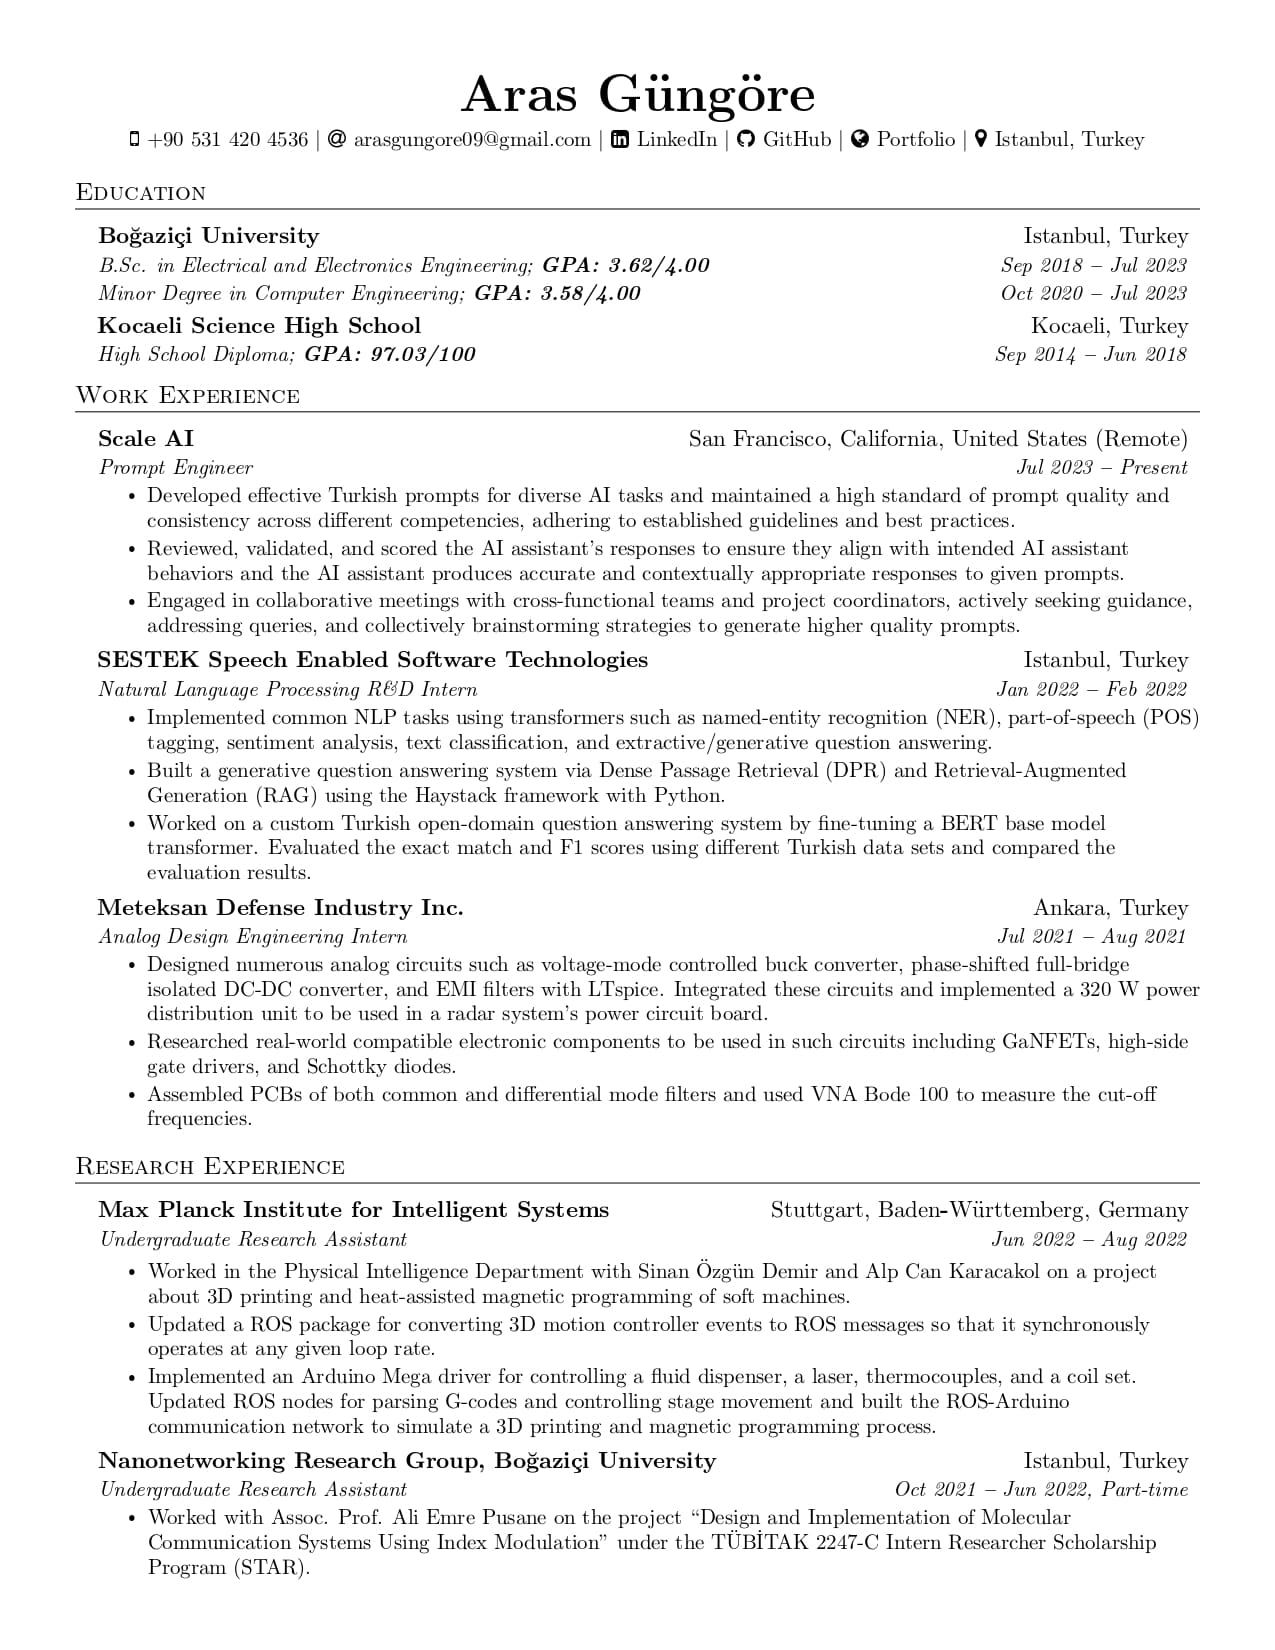
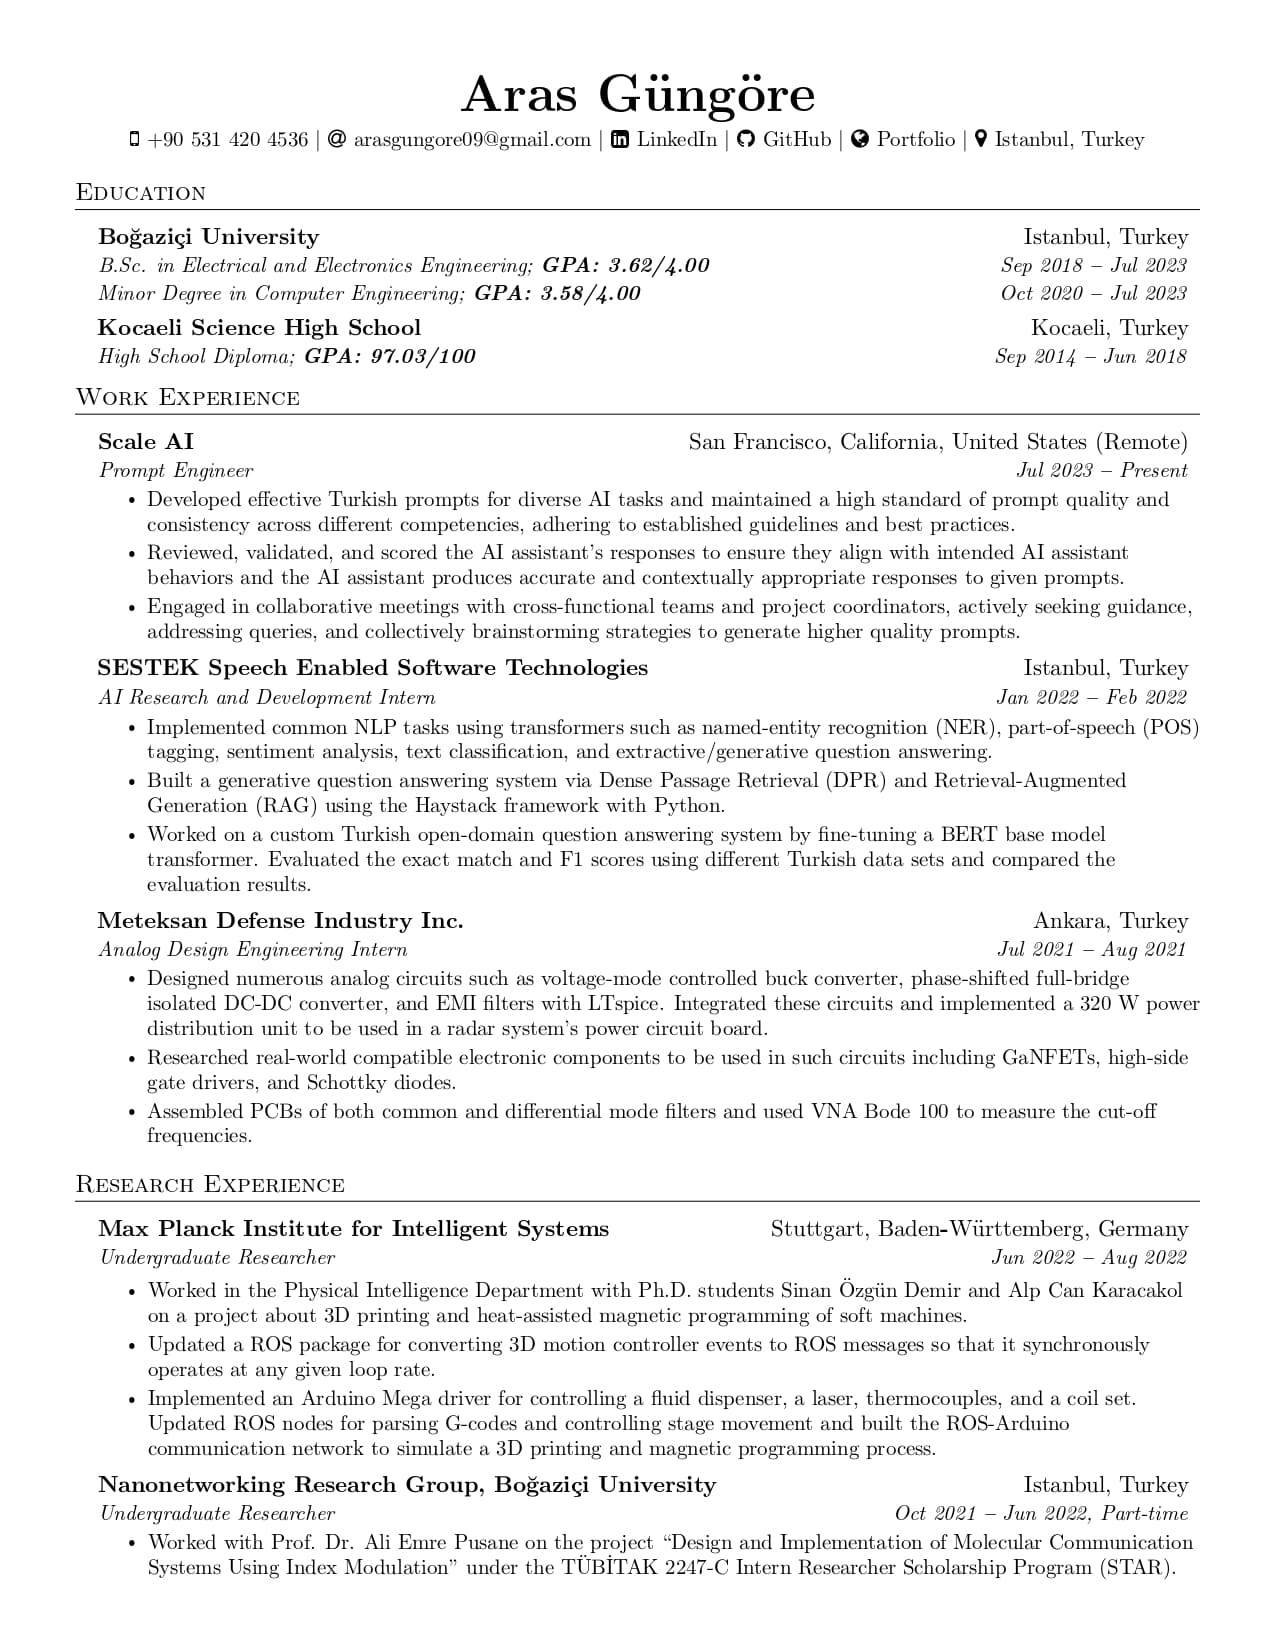
Updated experience section

diff --git a/main.tex b/main.tex
@@ -193,7 +193,7 @@
     
     \resumeSubheading
       {SESTEK Speech Enabled Software Technologies}{Istanbul, Turkey}
-      {Natural Language Processing R\&D Intern}{Jan 2022 \textbf{--} Feb 2022}
+      {AI Research and Development Intern}{Jan 2022 \textbf{--} Feb 2022}
         \resumeItemListStart
             \resumeItem{Implemented common NLP tasks using transformers such as named-entity recognition (NER), part-of-speech (POS) tagging, sentiment analysis, text classification, and extractive/generative question answering.}
             \resumeItem{Built a generative question answering system via Dense Passage Retrieval (DPR) and Retrieval-Augmented Generation (RAG) using the Haystack framework with Python.}
@@ -230,9 +230,9 @@
   
     \resumeSubheading
       {Max Planck Institute for Intelligent Systems}{Stuttgart, Baden\textbf{-}Württemberg, Germany}
-      {Undergraduate Research Assistant}{Jun 2022 \textbf{--} Aug 2022}
+      {Undergraduate Researcher}{Jun 2022 \textbf{--} Aug 2022}
         \resumeItemListStart
-            \resumeItem{Worked in the Physical Intelligence Department with Sinan Özgün Demir and Alp Can Karacakol on a project about 3D printing and heat-assisted magnetic programming of soft machines.}
+            \resumeItem{Worked in the Physical Intelligence Department with Ph.D. students Sinan Özgün Demir and Alp Can Karacakol on a project about 3D printing and heat-assisted magnetic programming of soft machines.}
             \resumeItem{Updated a ROS package for converting 3D motion controller events to ROS messages so that it synchronously operates at any given loop rate.}
             \resumeItem{Implemented an Arduino Mega driver for controlling a fluid dispenser, a laser, thermocouples, and a coil set. Updated ROS nodes for parsing G-codes and controlling stage movement and built the ROS-Arduino communication network to simulate a 3D printing and magnetic programming process.}
         \resumeItemListEnd
@@ -241,9 +241,9 @@
     
     \resumeSubheading
       {Nanonetworking Research Group, Boğaziçi University}{Istanbul, Turkey}
-      {Undergraduate Research Assistant}{Oct 2021 \textbf{--} Jun 2022, Part-time}
+      {Undergraduate Researcher}{Oct 2021 \textbf{--} Jun 2022, Part-time}
         \resumeItemListStart
-            \resumeItem{Worked with Assoc. Prof. Ali Emre Pusane on the project “Design and Implementation of Molecular Communication Systems Using Index Modulation” under the TÜBİTAK 2247-C Intern Researcher Scholarship Program (STAR).}
+            \resumeItem{Worked with Prof. Dr. Ali Emre Pusane on the project “Design and Implementation of Molecular Communication Systems Using Index Modulation” under the TÜBİTAK 2247-C Intern Researcher Scholarship Program (STAR).}
             \resumeItem{Simulated the Brownian motion of molecules in a SISO MCvD system and predicted simulation parameters such as receiver radius, diffusion coefficient, and transmitter-receiver distance using CNNs with Python.}
             \resumeItem{Plotted the arrival of molecules per symbol duration in a SISO MCvD system using Binomial, Poisson, and Gaussian model approximations with MATLAB.}
             \resumeItem{Ran Monte Carlo simulations of the Gaussian model to encode/decode randomized binary sequences in a SISO MCvD system using BCSK modulation technique and calculated the bit error rate (BER) on Z-channel.}
